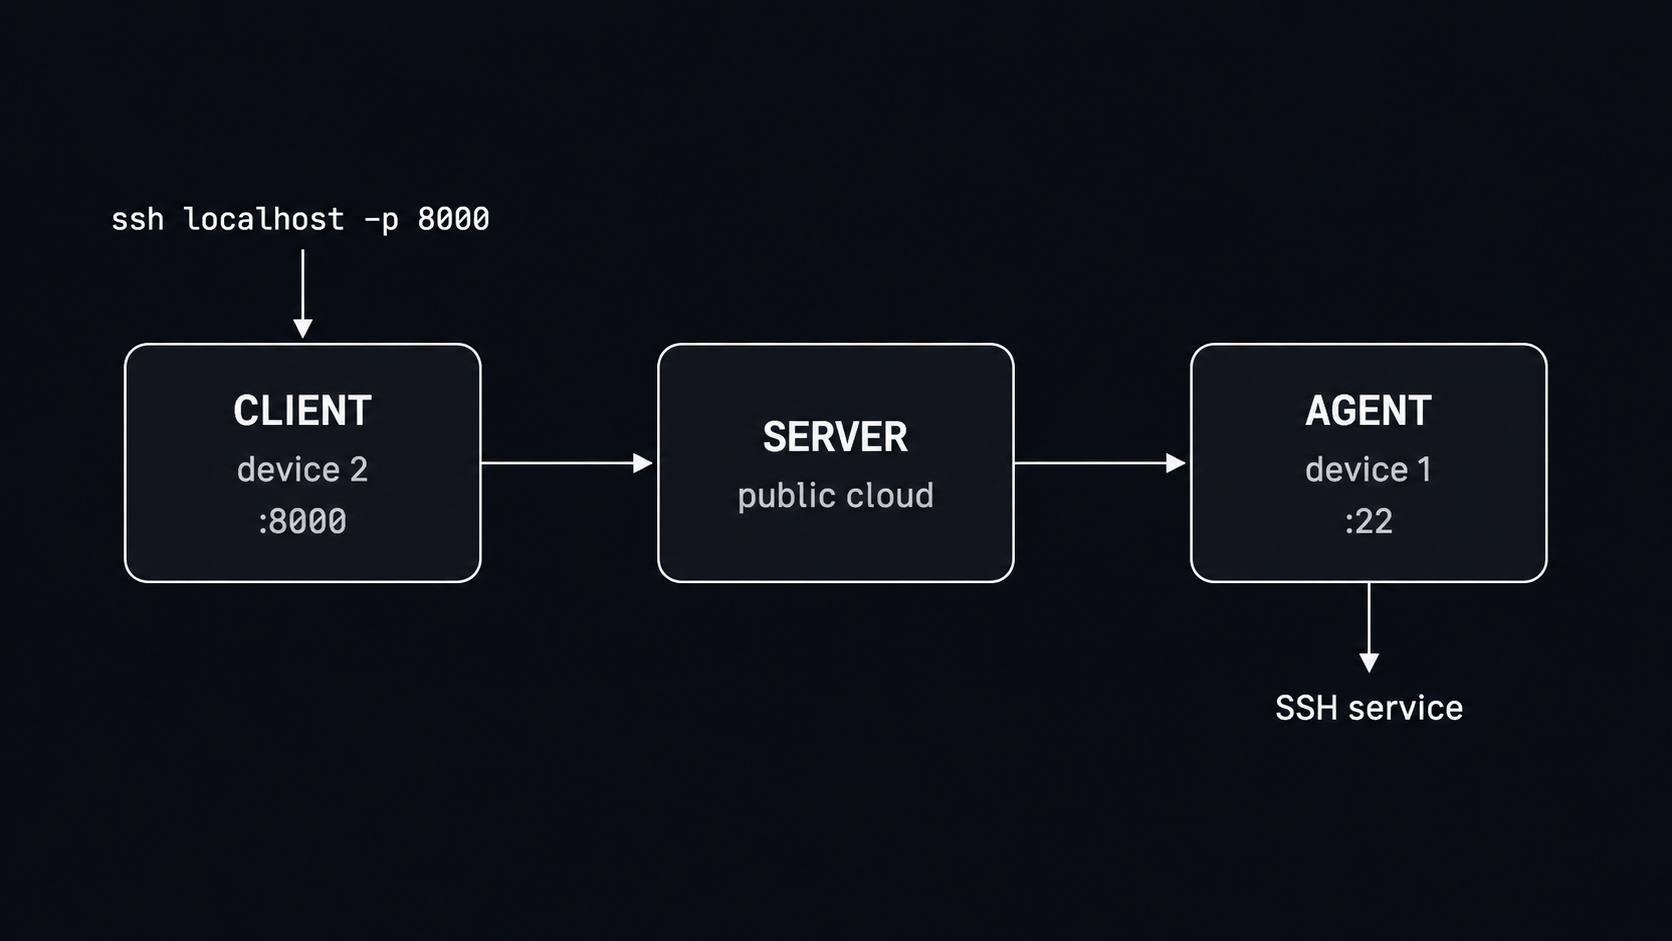
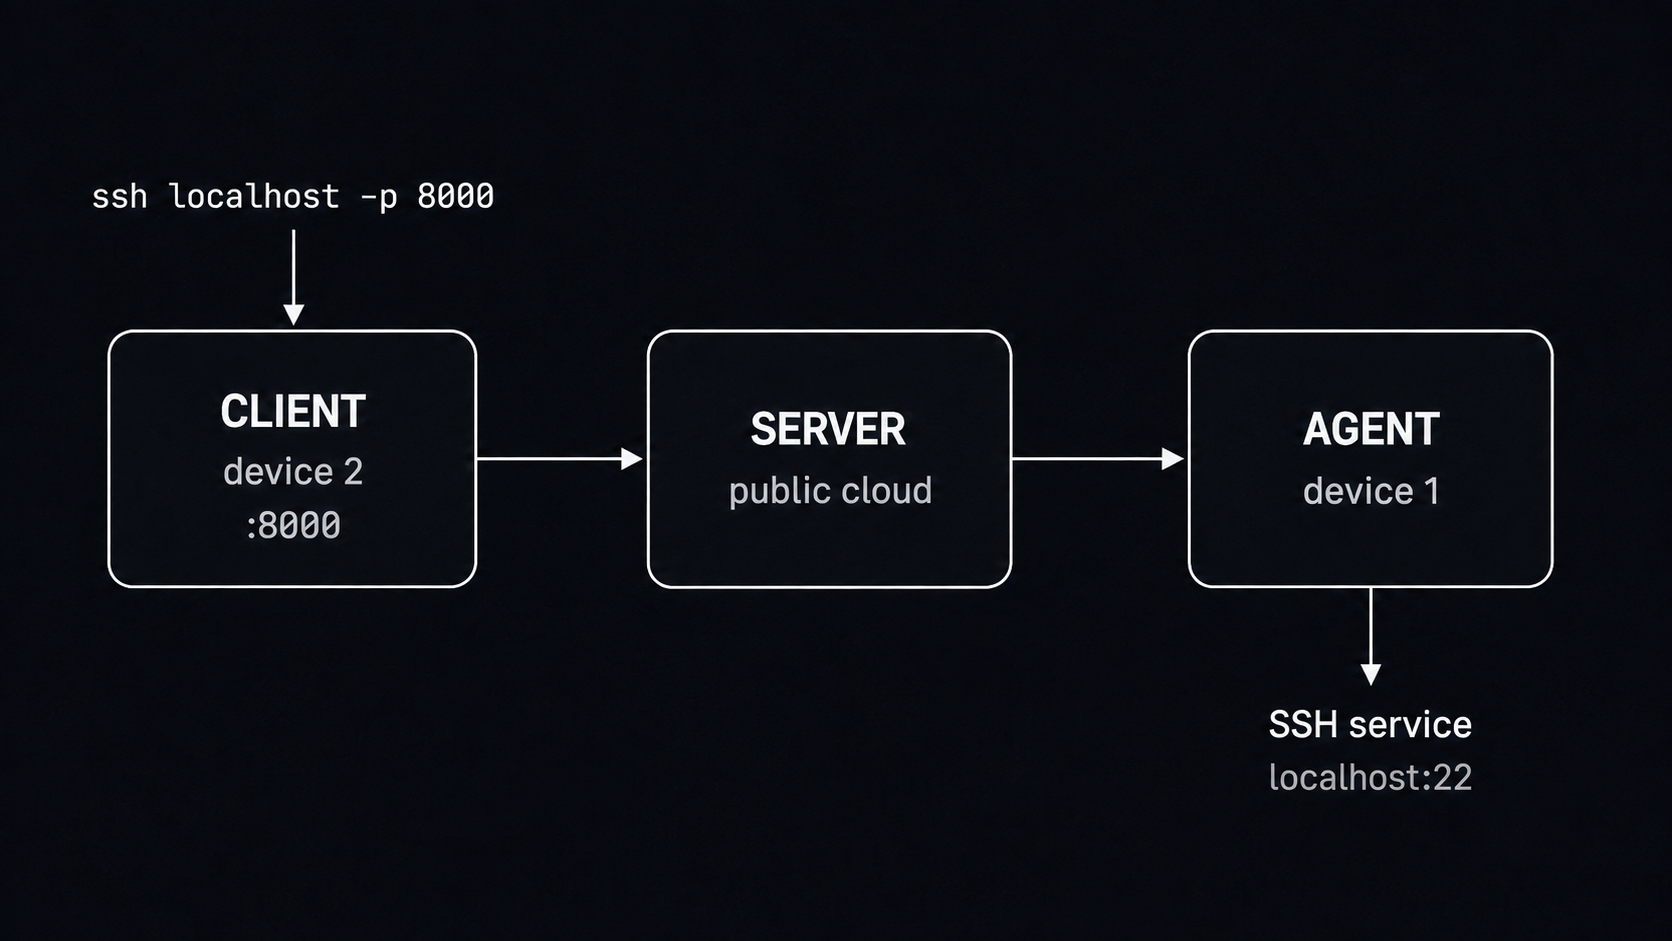
update readme

diff --git a/README.md b/README.md
@@ -30,9 +30,6 @@ relay to `localhost:22` on device 1.
 
 ![SSH routed from the client on device 2 through the public server to the agent on device 1](tunnel-flow.png)
 
-The arrows show the route at a glance. Once connected, the server pairs the
-client and agent sockets and relays traffic bidirectionally.
-
 ## Quick start: tunnel SSH
 
 You need Node.js 24 or newer on all three hosts. Clone and install the project
